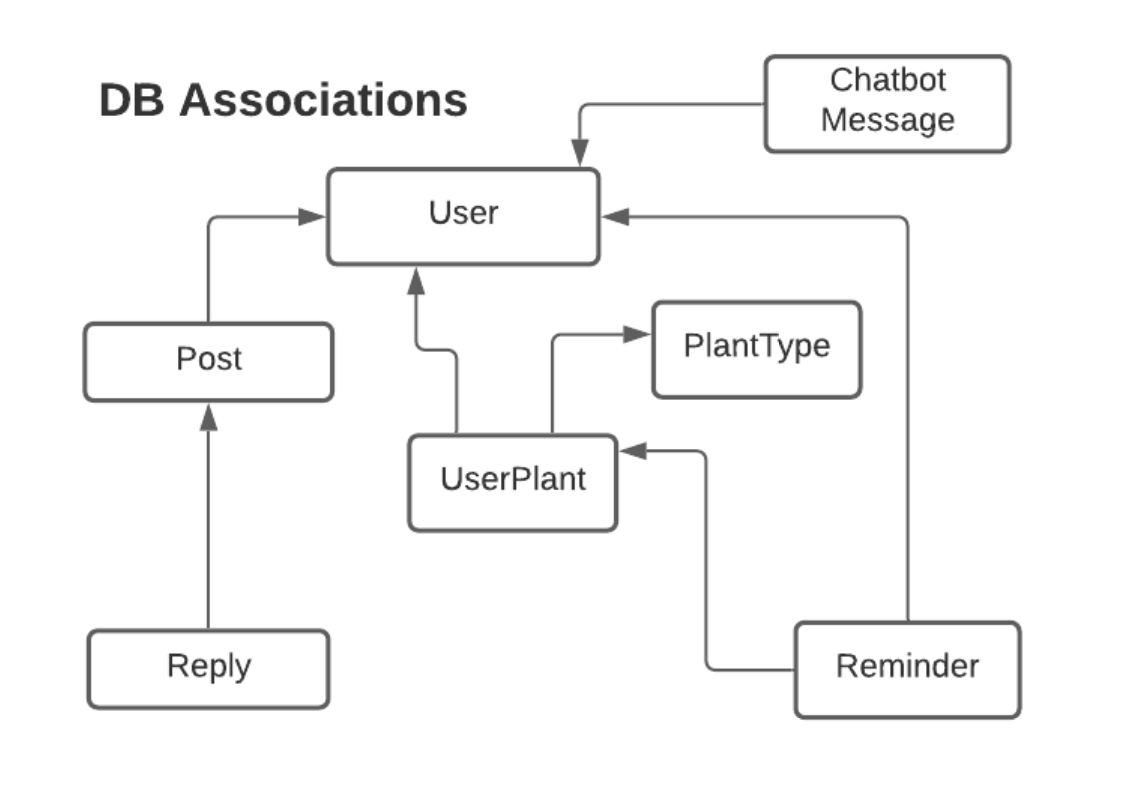
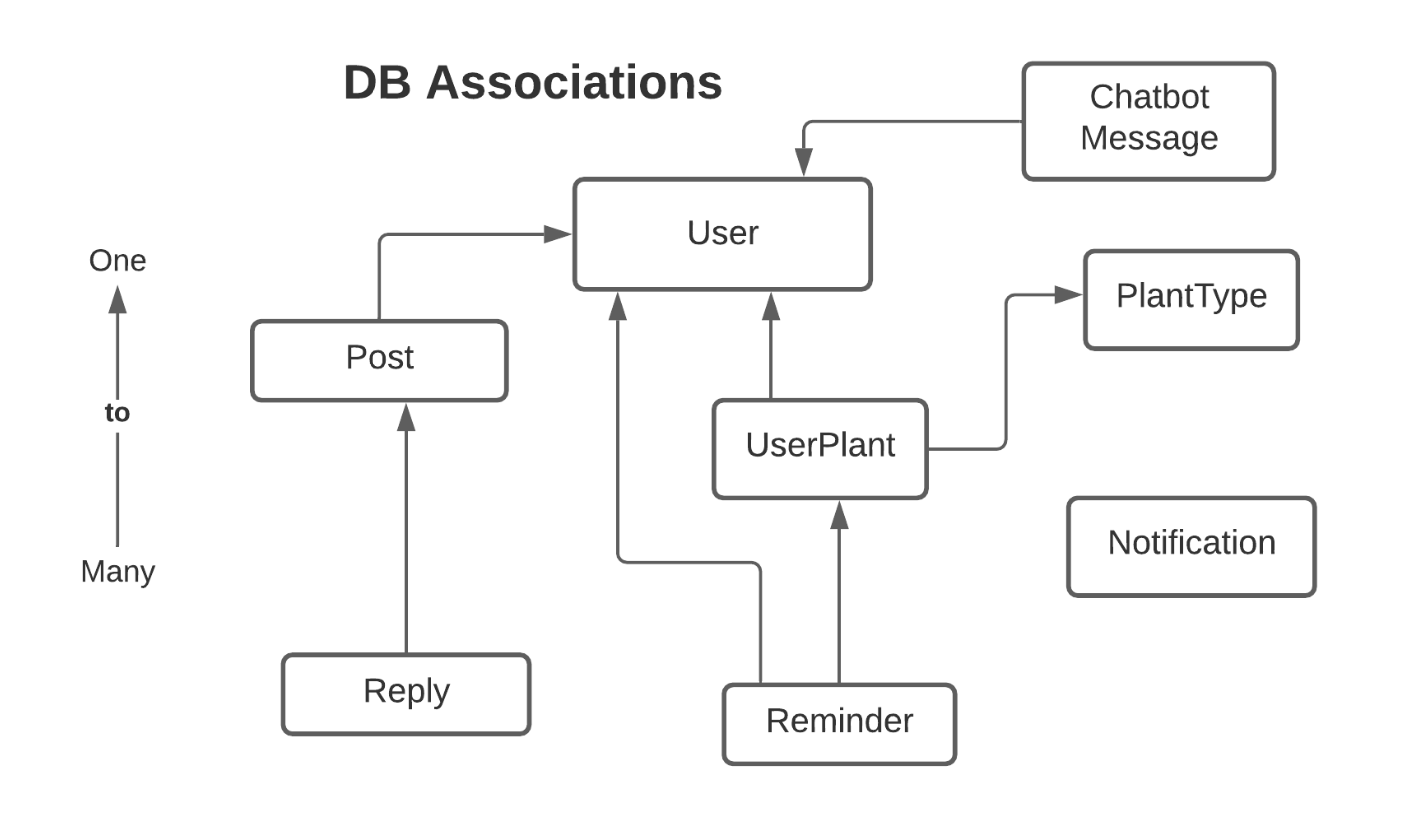
Updated architecture and info about DB

Changed region(s): [[0.0611, 0.0611, 0.9468, 0.916], [0.0611, 0.6718, 0.1222, 0.7023]]

diff --git a/table_model.md b/table_model.md
@@ -15,20 +15,22 @@ We had created_at and updated_at columns for all the models. To keep things DRY,
   - remember_token: string
   - admin: boolean
 - <strong>UserPlant</strong>
-  - plant_id: integer 🌱
+  - user_plant_id: integer 🌱
   - <ins>user_id: integer</ins>
   - name: string
   - age: float
   - plant_type: string
-  - image_url: string
+  - img_url: string
   - description: string
 - <strong>Reminder</strong>
   - reminder_id: integer 🌱
   - <ins>user_plant_id: integer</ins>
   - <ins>user_id: integer</ins>
-  - tick_time: time
   - description: string
   - reminder_type: enum
+  - interval: integer
+  - tick_time: time
+  - email_time: datetime
 - <strong>ChatbotMessage</strong>
   - chatbot_message_id: integer 🌱
   - <ins>user_id: integer</ins>
@@ -41,6 +43,7 @@ We had created_at and updated_at columns for all the models. To keep things DRY,
   - topic: enum
   - title: string
   - body: string
+  - edited_at: datetime
 - <strong>Reply</strong>
   - reply_id: integer 🌱
   - <ins>user_id: integer</ins>
@@ -49,5 +52,17 @@ We had created_at and updated_at columns for all the models. To keep things DRY,
 - <strong>PlantType</strong>
   - plant_type_id: integer 🌱
   - name: string
-
+- <strong>Notification</strong>
+  - notification_id: integer 🌱 
+  - <ins>user_id: bigint</ins>
+  - <ins>actor_id: bigint</ins>
+  - notify_type: string
+  - target_type: string
+  - target_id: bigint
+  - second_target_type: string
+  - second_target_id: bigint
+  - third_target_type: string
+  - third_target_id: bigint
+  - read_at: datetime
+  
 [Next page](databse_design.md)
